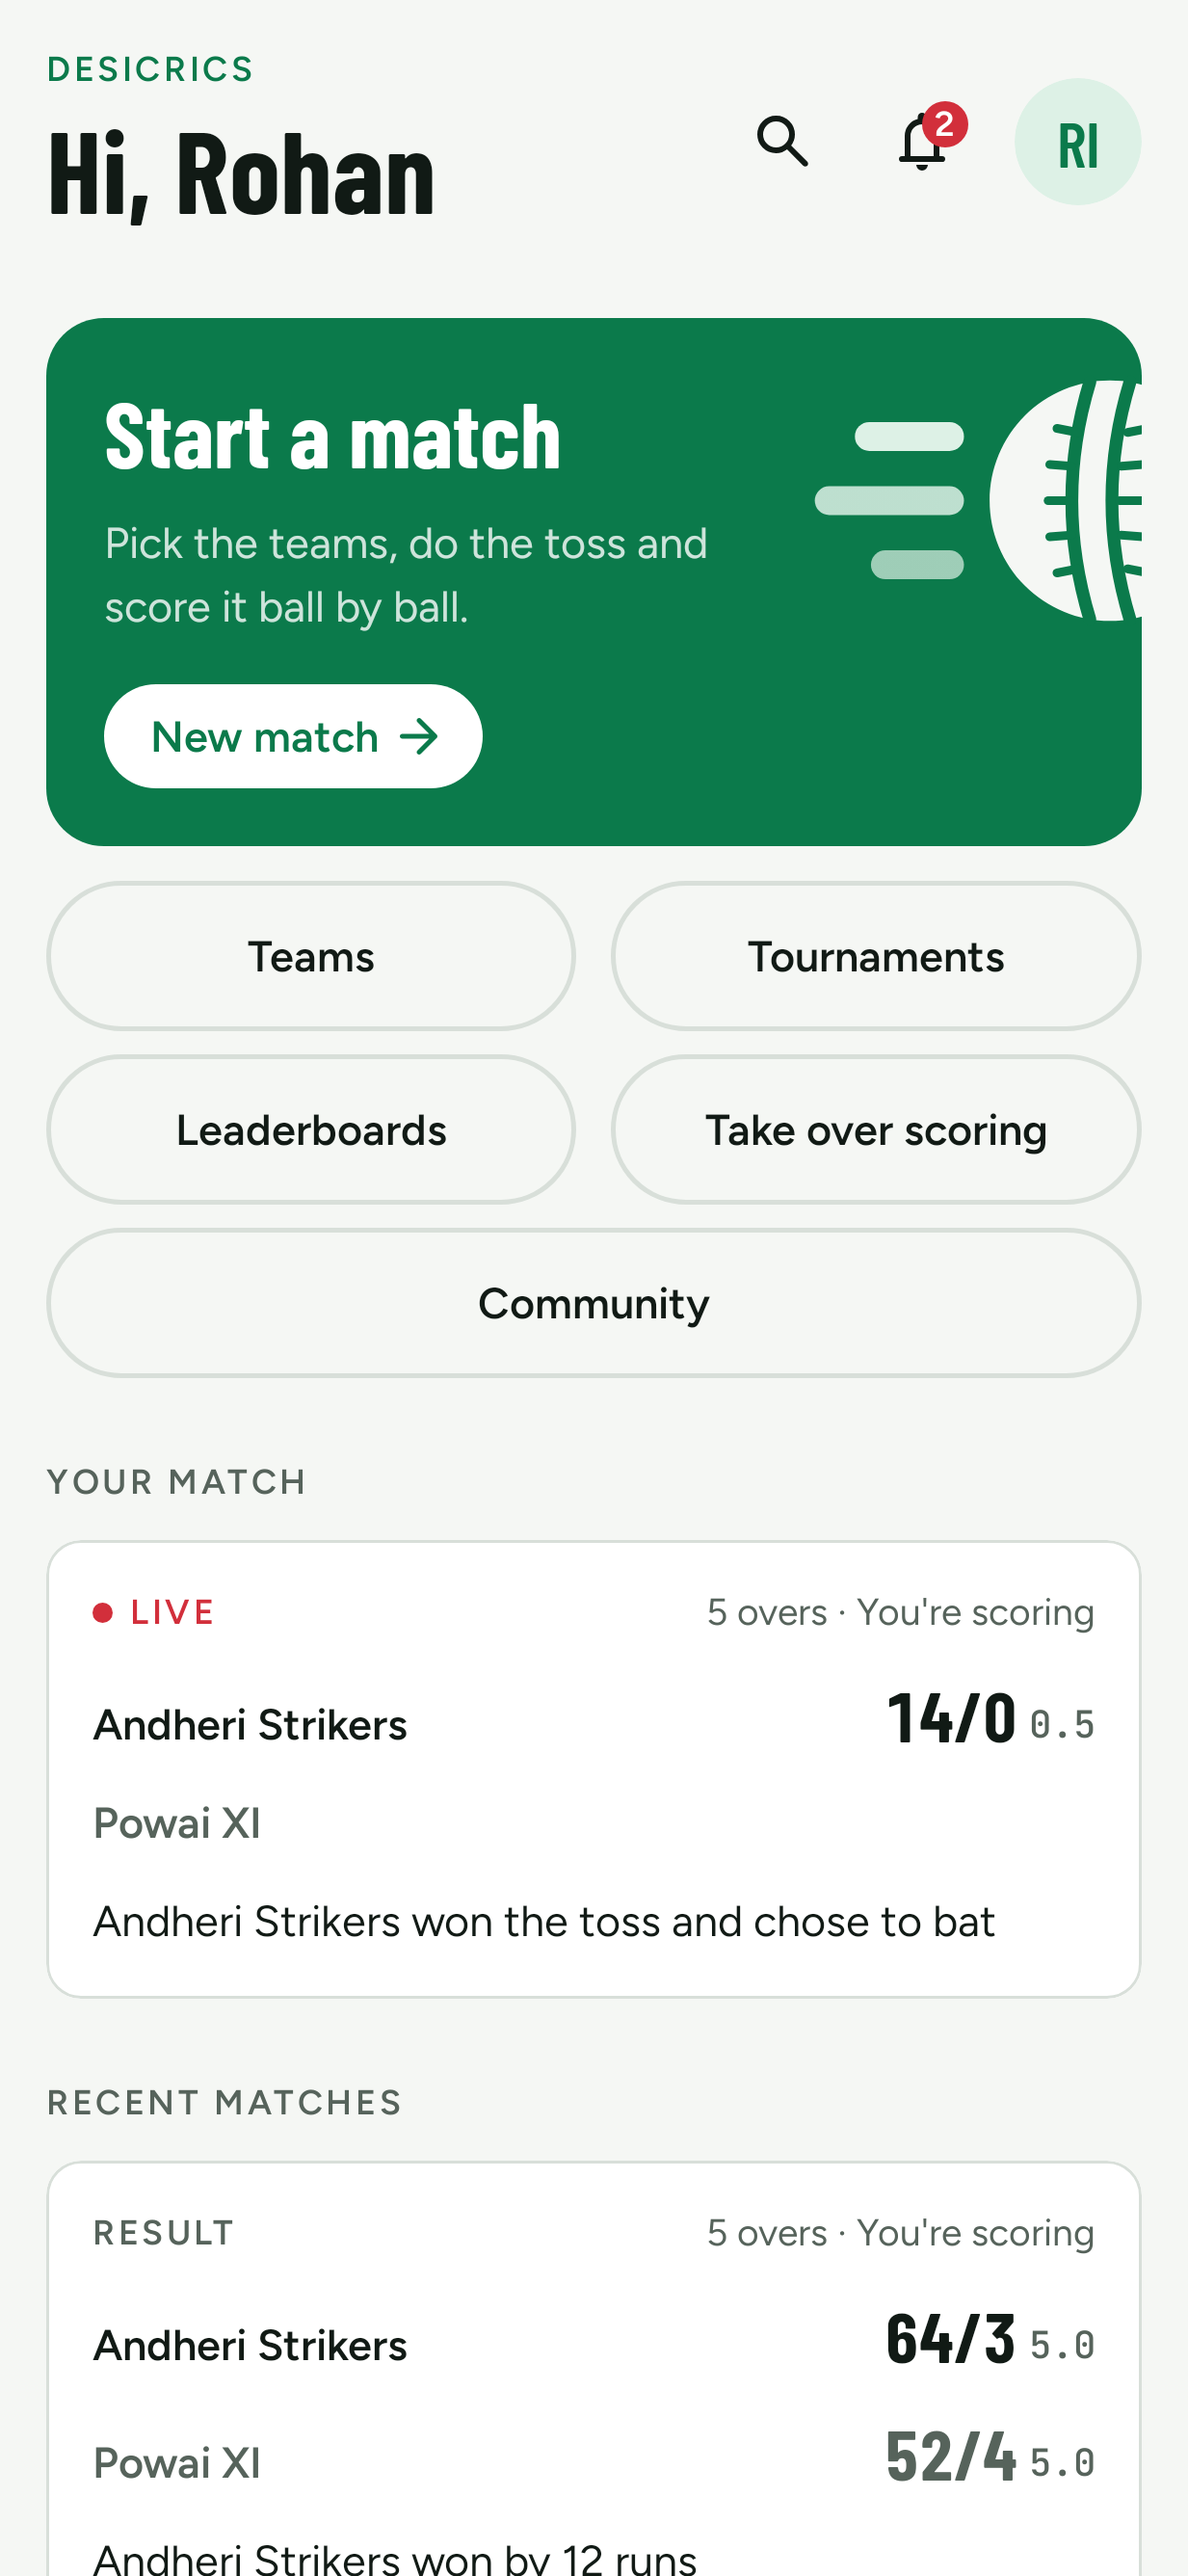
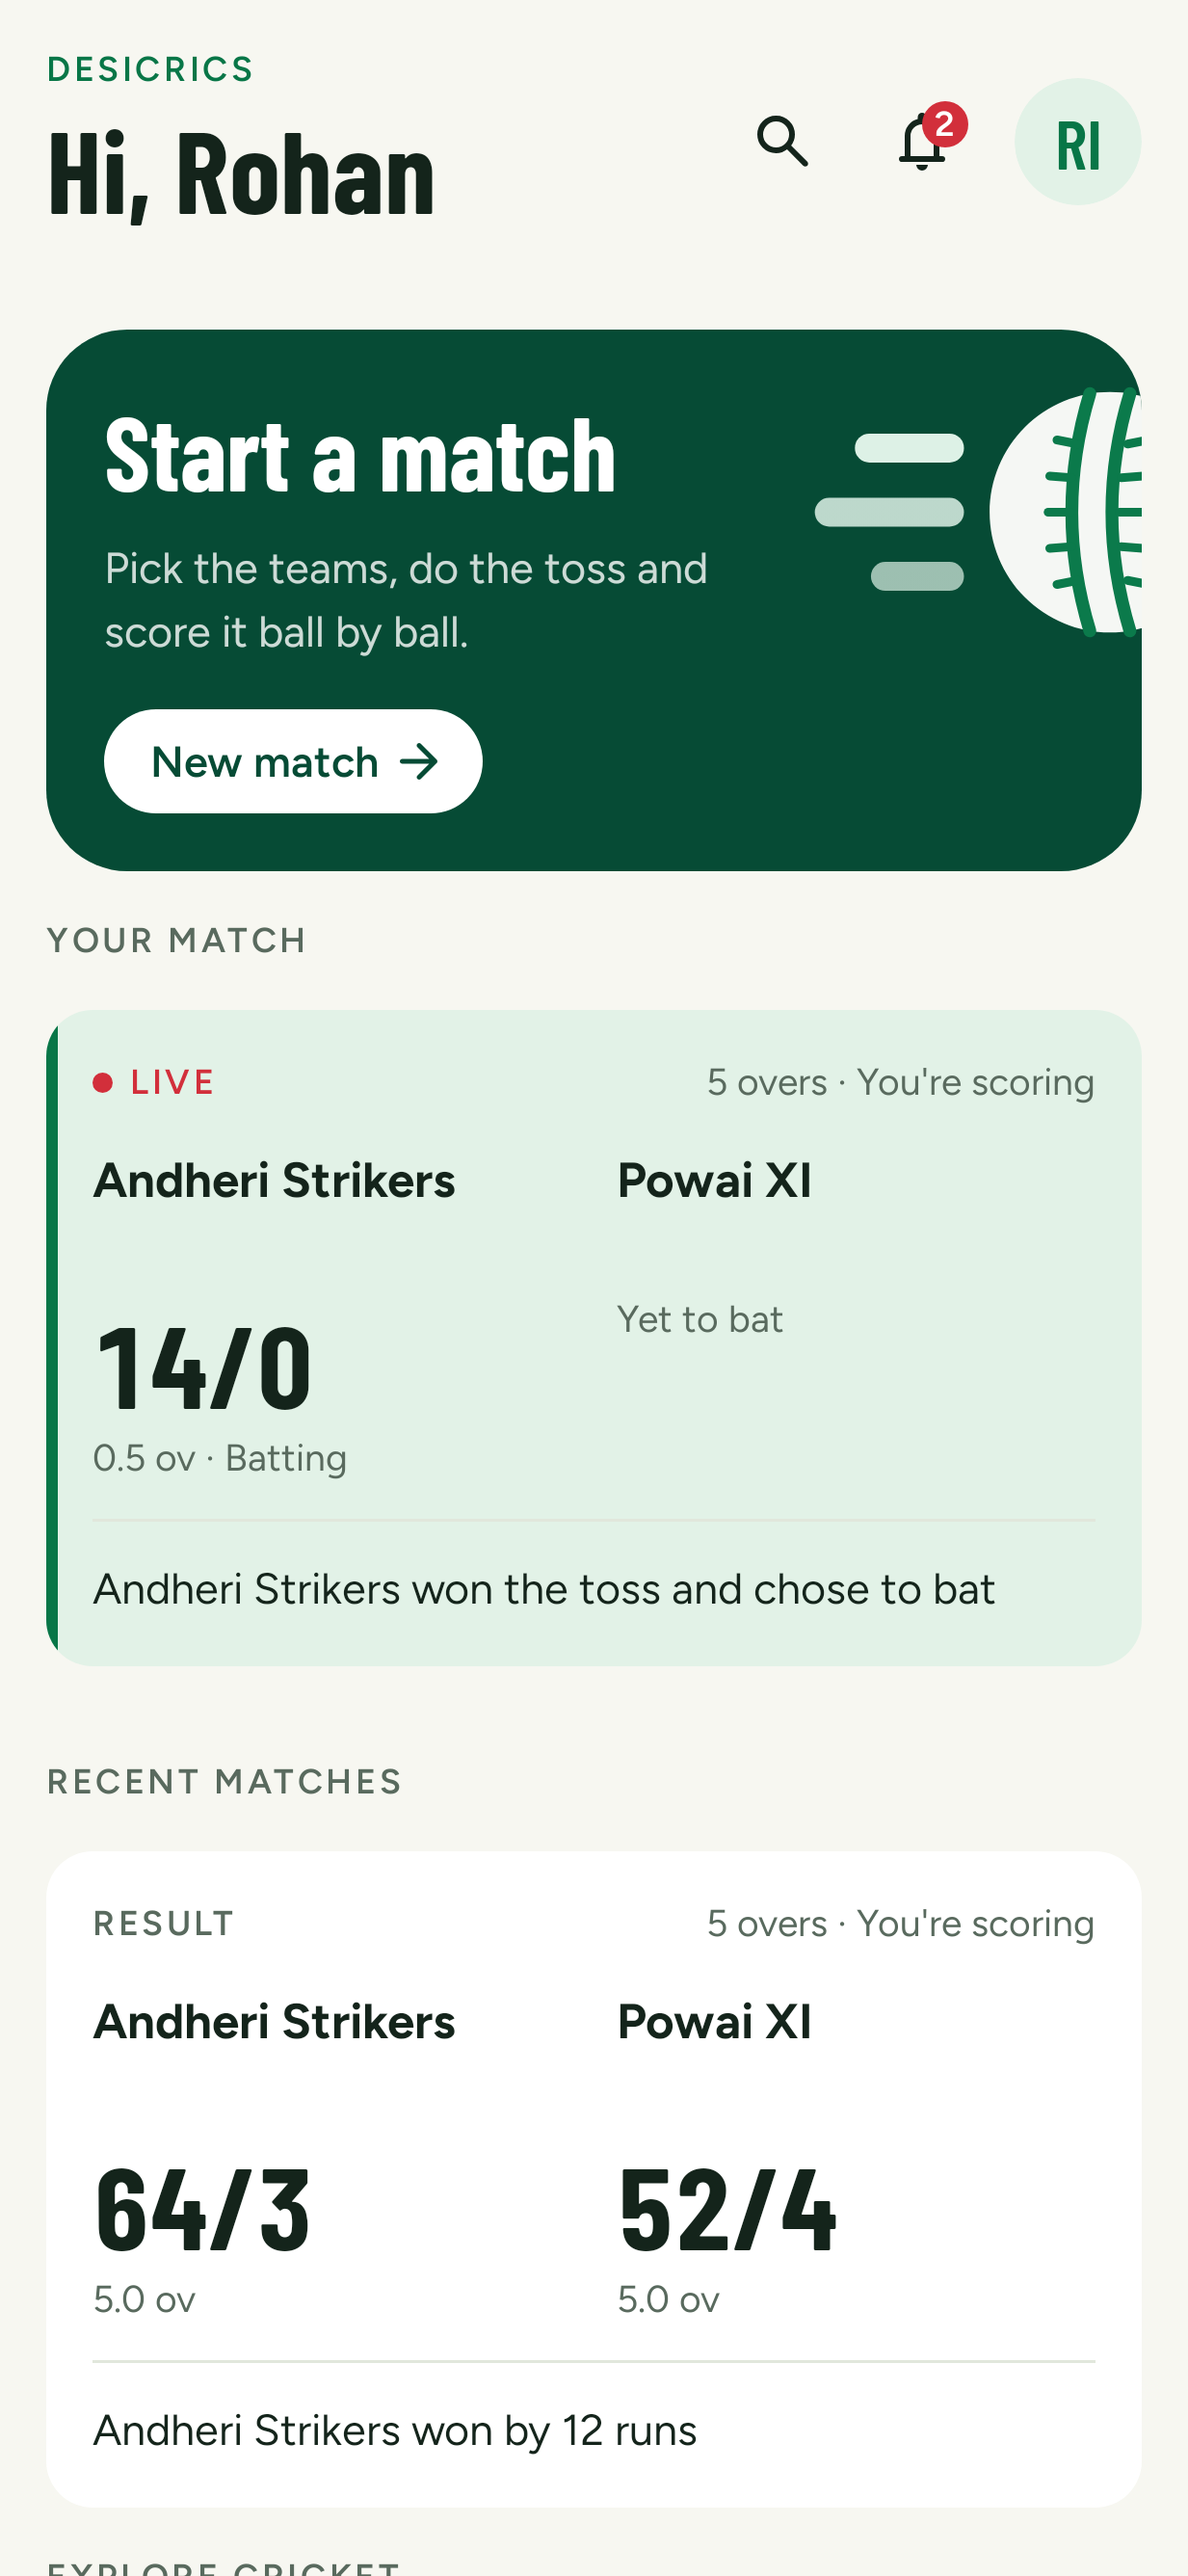
Show opposing teams side by side and distinguish live matches

diff --git a/app/designsystem/src/commonMain/kotlin/com/harsh/desicrics/designsystem/component/Content.kt b/app/designsystem/src/commonMain/kotlin/com/harsh/desicrics/designsystem/component/Content.kt
@@ -5,6 +5,11 @@ import androidx.compose.foundation.border
 import androidx.compose.foundation.clickable
 import androidx.compose.foundation.layout.Arrangement
 import androidx.compose.foundation.layout.Box
+import androidx.compose.foundation.layout.BoxWithConstraints
+import androidx.compose.ui.draw.drawBehind
+import androidx.compose.ui.geometry.Size
+import androidx.compose.ui.platform.LocalDensity
+import androidx.compose.ui.text.font.FontWeight
 import androidx.compose.foundation.layout.Column
 import androidx.compose.foundation.layout.ColumnScope
 import androidx.compose.foundation.layout.Row
@@ -24,6 +29,9 @@ import androidx.compose.ui.text.style.TextOverflow
 import androidx.compose.ui.unit.dp
 import com.harsh.desicrics.designsystem.icon.DesiIcons
 import com.harsh.desicrics.designsystem.resources.Res
+import com.harsh.desicrics.designsystem.resources.ds_batting
+import com.harsh.desicrics.designsystem.resources.ds_innings_overs
+import com.harsh.desicrics.designsystem.resources.ds_yet_to_bat
 import com.harsh.desicrics.designsystem.resources.ds_live
 import com.harsh.desicrics.designsystem.theme.DesiTheme
 import org.jetbrains.compose.resources.painterResource
@@ -76,35 +84,52 @@ fun MatchCard(
     onClick: (() -> Unit)? = null,
 ) {
     val colors = DesiTheme.colors
-    DesiCard(modifier, onClick) {
-        Row(Modifier.fillMaxWidth(), verticalAlignment = Alignment.CenterVertically) {
+    val live = teams.any { it.batting }
+    Column(
+        modifier.fillMaxWidth().clip(DesiTheme.radius.md)
+            .background(if (live) colors.brandSoft else colors.surface)
+            .drawBehind { if (live) drawRect(colors.brand, size = Size(4.dp.toPx(), size.height)) }
+            .then(if (onClick != null) Modifier.clickable(onClick = onClick) else Modifier)
+            .padding(DesiTheme.space.s4),
+        verticalArrangement = Arrangement.spacedBy(DesiTheme.space.s3),
+    ) {
+        Row(verticalAlignment = Alignment.CenterVertically) {
             Box(Modifier.weight(1f)) { status() }
-            if (meta != null) Text(meta, style = DesiTheme.type.caption, color = colors.muted, maxLines = 1)
+            if (meta != null) Text(meta, style = DesiTheme.type.caption, color = colors.muted)
         }
-        teams.forEach { team ->
-            Row(Modifier.fillMaxWidth(), verticalAlignment = Alignment.Bottom) {
-                Text(
-                    team.name,
-                    style = DesiTheme.type.bodyStrong,
-                    color = if (team.batting) colors.ink else colors.muted,
-                    maxLines = 1,
-                    overflow = TextOverflow.Ellipsis,
-                    modifier = Modifier.weight(1f),
-                )
-                if (team.score != null) {
-                    Text(team.score, style = DesiTheme.type.scoreMd, color = if (team.batting) colors.ink else colors.muted)
+        BoxWithConstraints(Modifier.fillMaxWidth()) {
+            if (maxWidth < 260.dp * LocalDensity.current.fontScale) {
+                Column(verticalArrangement = Arrangement.spacedBy(DesiTheme.space.s3)) {
+                    teams.forEach { TeamScore(it, showPending = live) }
                 }
-                if (team.overs != null) {
-                    Text(
-                        team.overs,
-                        style = DesiTheme.type.data,
-                        color = colors.muted,
-                        modifier = Modifier.padding(start = DesiTheme.space.s1, bottom = 2.dp),
-                    )
+            } else {
+                Row(horizontalArrangement = Arrangement.spacedBy(DesiTheme.space.s4)) {
+                    teams.forEach { TeamScore(it, showPending = live, modifier = Modifier.weight(1f), nameLines = 2) }
                 }
             }
         }
-        if (footer != null) Text(footer, style = DesiTheme.type.body, color = colors.ink)
+        if (footer != null) {
+            androidx.compose.material3.HorizontalDivider(color = colors.line)
+            Text(footer, style = DesiTheme.type.body, color = colors.ink)
+        }
+    }
+}
+
+@Composable
+private fun TeamScore(team: TeamLine, showPending: Boolean, modifier: Modifier = Modifier, nameLines: Int = 1) {
+    val colors = DesiTheme.colors
+    Column(modifier) {
+        Text(team.name, style = DesiTheme.type.bodyLg, fontWeight = FontWeight.Bold, color = colors.ink, minLines = nameLines)
+        if (team.score != null) {
+            Text(team.score, style = DesiTheme.type.scoreLg, color = colors.ink)
+            val detail = listOfNotNull(
+                team.overs?.let { stringResource(Res.string.ds_innings_overs, it) },
+                if (team.batting) stringResource(Res.string.ds_batting) else null,
+            ).joinToString(" · ")
+            if (detail.isNotEmpty()) Text(detail, style = DesiTheme.type.caption, color = colors.muted)
+        } else if (showPending) {
+            Text(stringResource(Res.string.ds_yet_to_bat), style = DesiTheme.type.caption, color = colors.muted)
+        }
     }
 }
 

diff --git a/app/shared/src/commonMain/kotlin/com/harsh/desicrics/ui/home/HomeScreen.kt b/app/shared/src/commonMain/kotlin/com/harsh/desicrics/ui/home/HomeScreen.kt
@@ -352,11 +352,7 @@ internal fun HomeMatchCard(match: Match, isMine: Boolean, onClick: () -> Unit) {
             name = match.team(side).name,
             score = innings?.let { "${it.runs}/${it.wickets}" },
             overs = innings?.let { formatOvers(it.legalBalls) },
-            // Highlight the side batting now, or the winner once it's over.
-            batting = when (val result = match.result) {
-                null -> side == current
-                else -> result.winner == null || result.winner == side
-            },
+            batting = match.status == MatchStatus.IN_PROGRESS && side == current,
         )
     }
     val overs = oversText(match.oversPerInnings)
@@ -365,6 +361,7 @@ internal fun HomeMatchCard(match: Match, isMine: Boolean, onClick: () -> Unit) {
         status = {
             when {
                 match.status == MatchStatus.COMPLETED -> StatusLabel(stringResource(Res.string.home_status_result))
+                match.status == MatchStatus.SCHEDULED -> StatusLabel(stringResource(Res.string.home_section_upcoming))
                 match.innings.isEmpty() -> StatusLabel(stringResource(Res.string.home_status_not_started))
                 else -> LiveBadge()
             }

diff --git a/app/shared/src/androidHostTest/kotlin/com/harsh/desicrics/ScreenshotTest.kt b/app/shared/src/androidHostTest/kotlin/com/harsh/desicrics/ScreenshotTest.kt
@@ -140,6 +140,22 @@ class ScreenshotTest {
     }
 
     @Test
+    fun matchCardsDark() = shoot("match_cards_dark", dark = true) {
+        val live = match(balls).match!!.copy(
+            status = MatchStatus.IN_PROGRESS,
+            teamA = strikers.copy(name = "Andheri Community Cricket Club"),
+        )
+        Column(Modifier.background(DesiTheme.colors.bg).padding(DesiTheme.space.s4),
+            verticalArrangement = androidx.compose.foundation.layout.Arrangement.spacedBy(DesiTheme.space.s3)) {
+            listOf(live, live.copy(status = MatchStatus.SCHEDULED, innings = emptyList()),
+                live.copy(status = MatchStatus.COMPLETED, result = com.harsh.desicrics.model.MatchResult(
+                    TeamSide.A, 2, com.harsh.desicrics.model.MarginUnit.RUNS),
+                    innings = listOf(InningsScore(TeamSide.A, 52, 2, 30), InningsScore(TeamSide.B, 50, 4, 30))),
+            ).forEach { com.harsh.desicrics.ui.home.HomeMatchCard(it, isMine = false, onClick = {}) }
+        }
+    }
+
+    @Test
     fun newMatch() = shoot("new_match") {
         NewMatchContent(
             NewMatchFormState(
